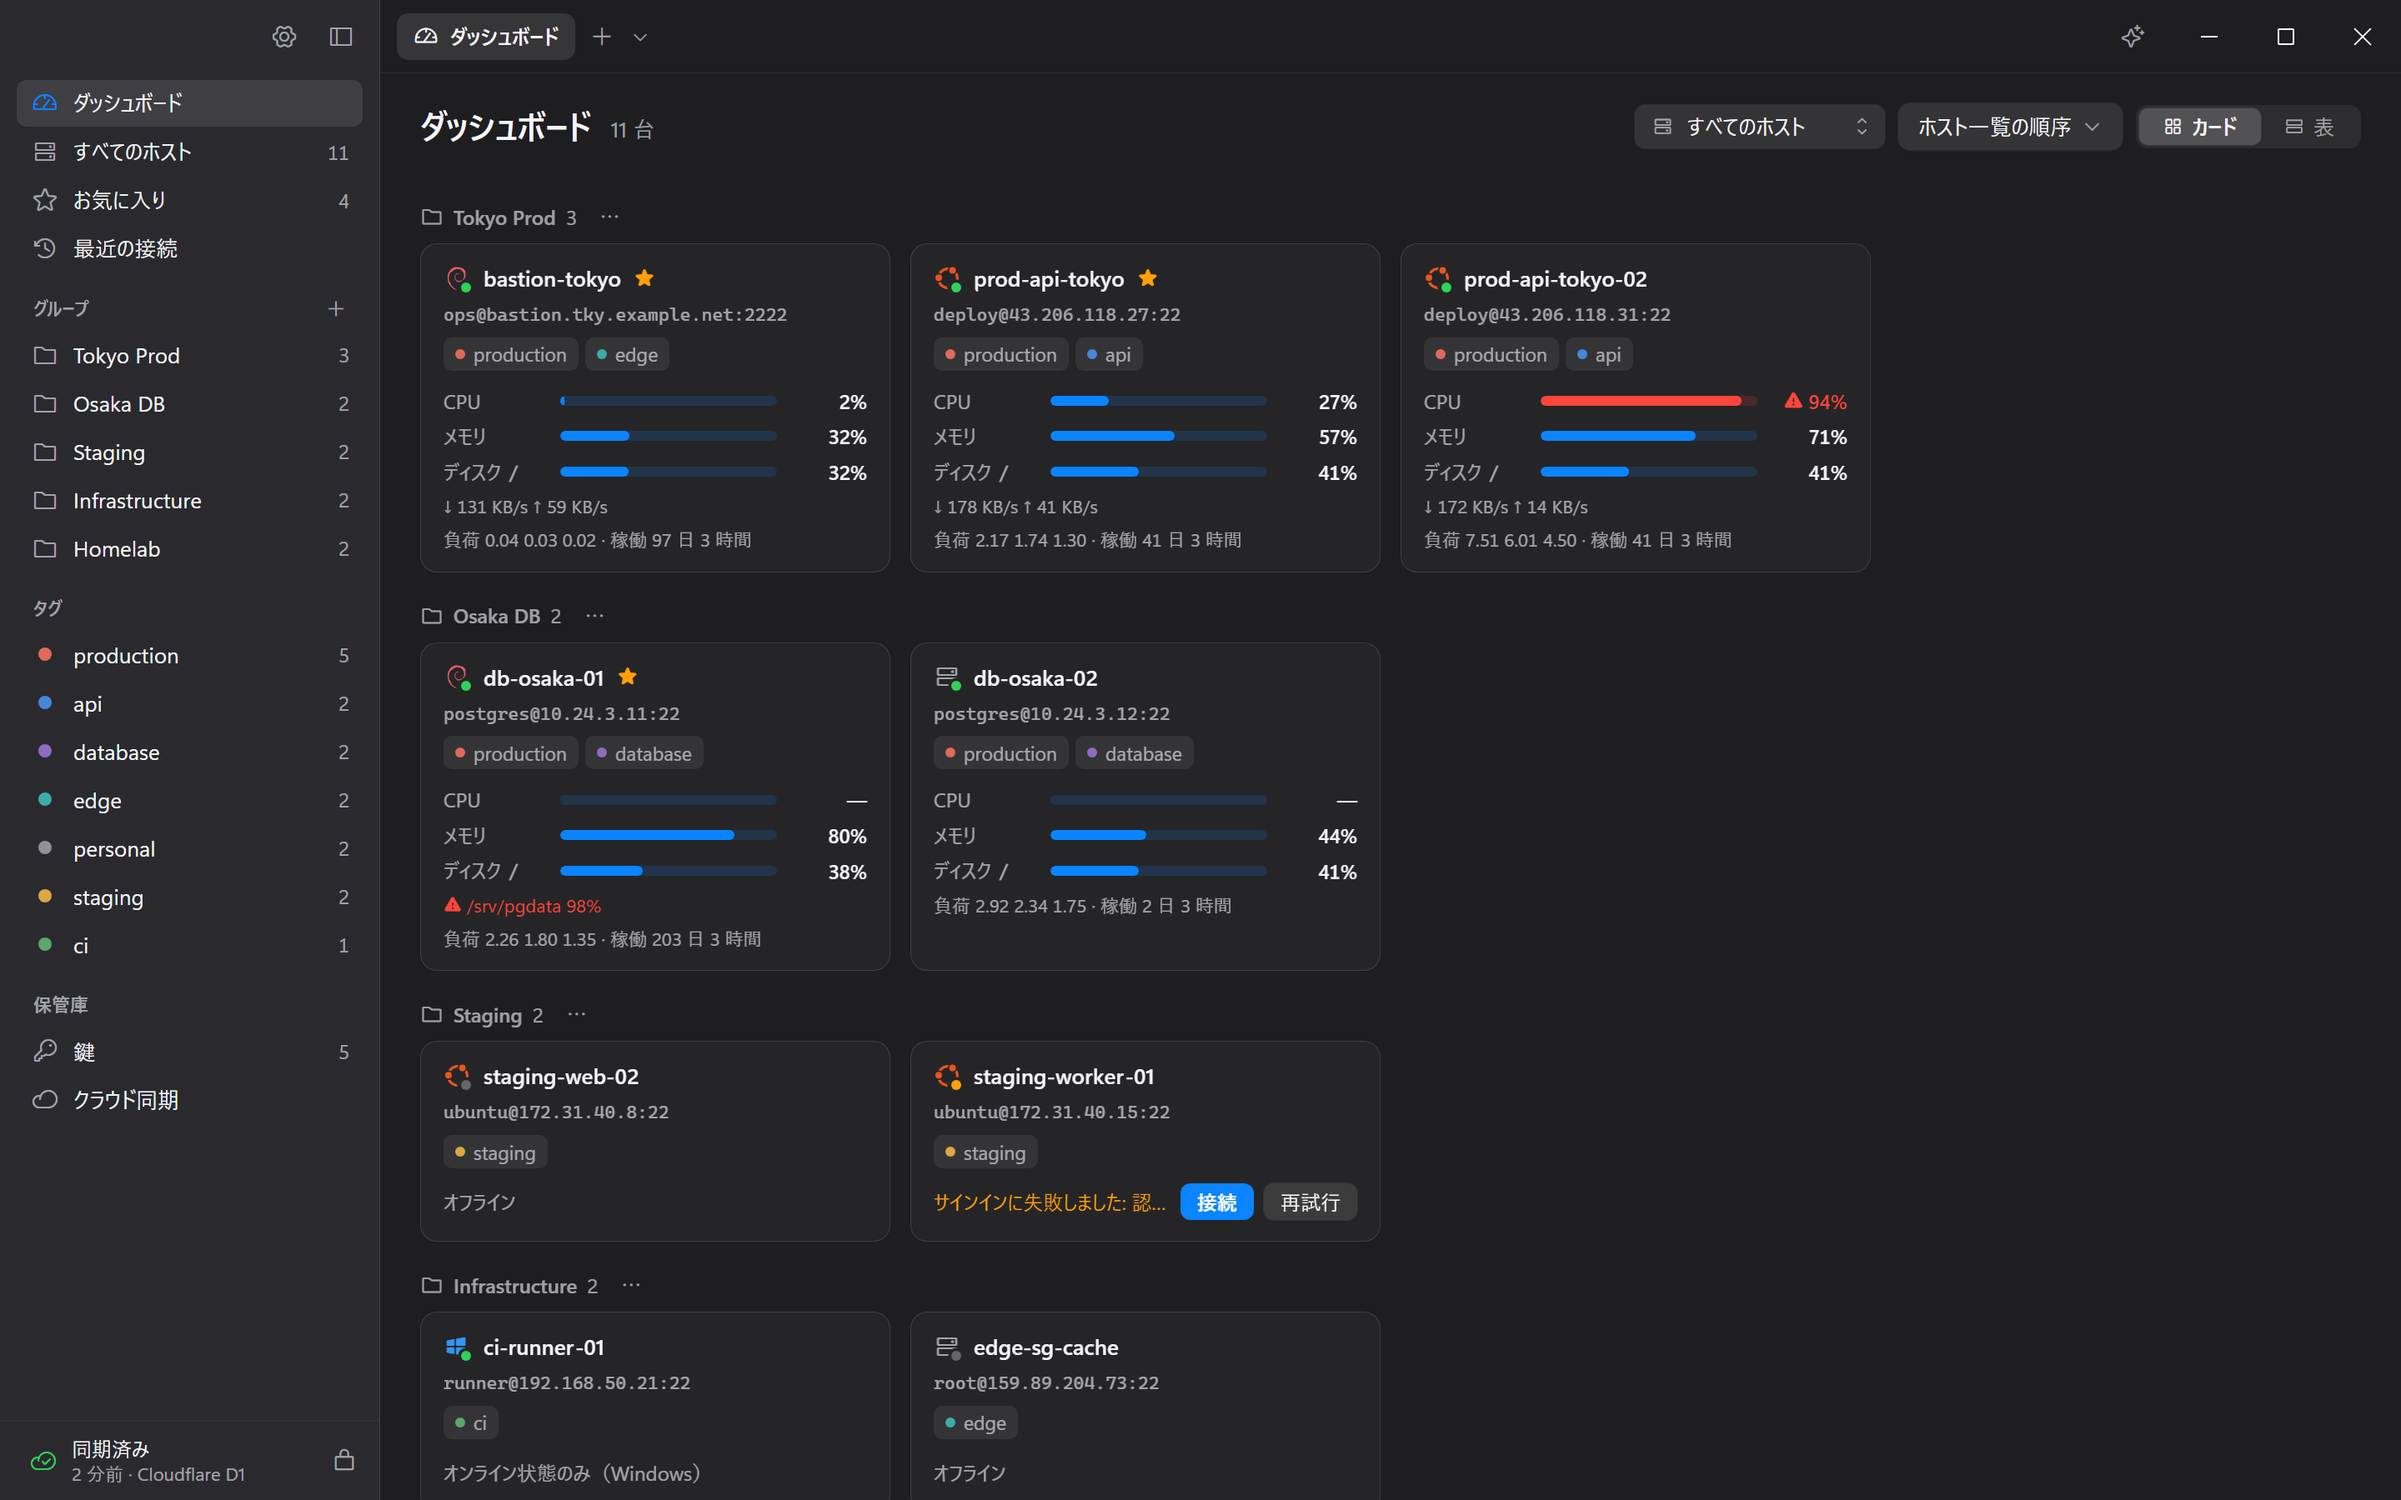
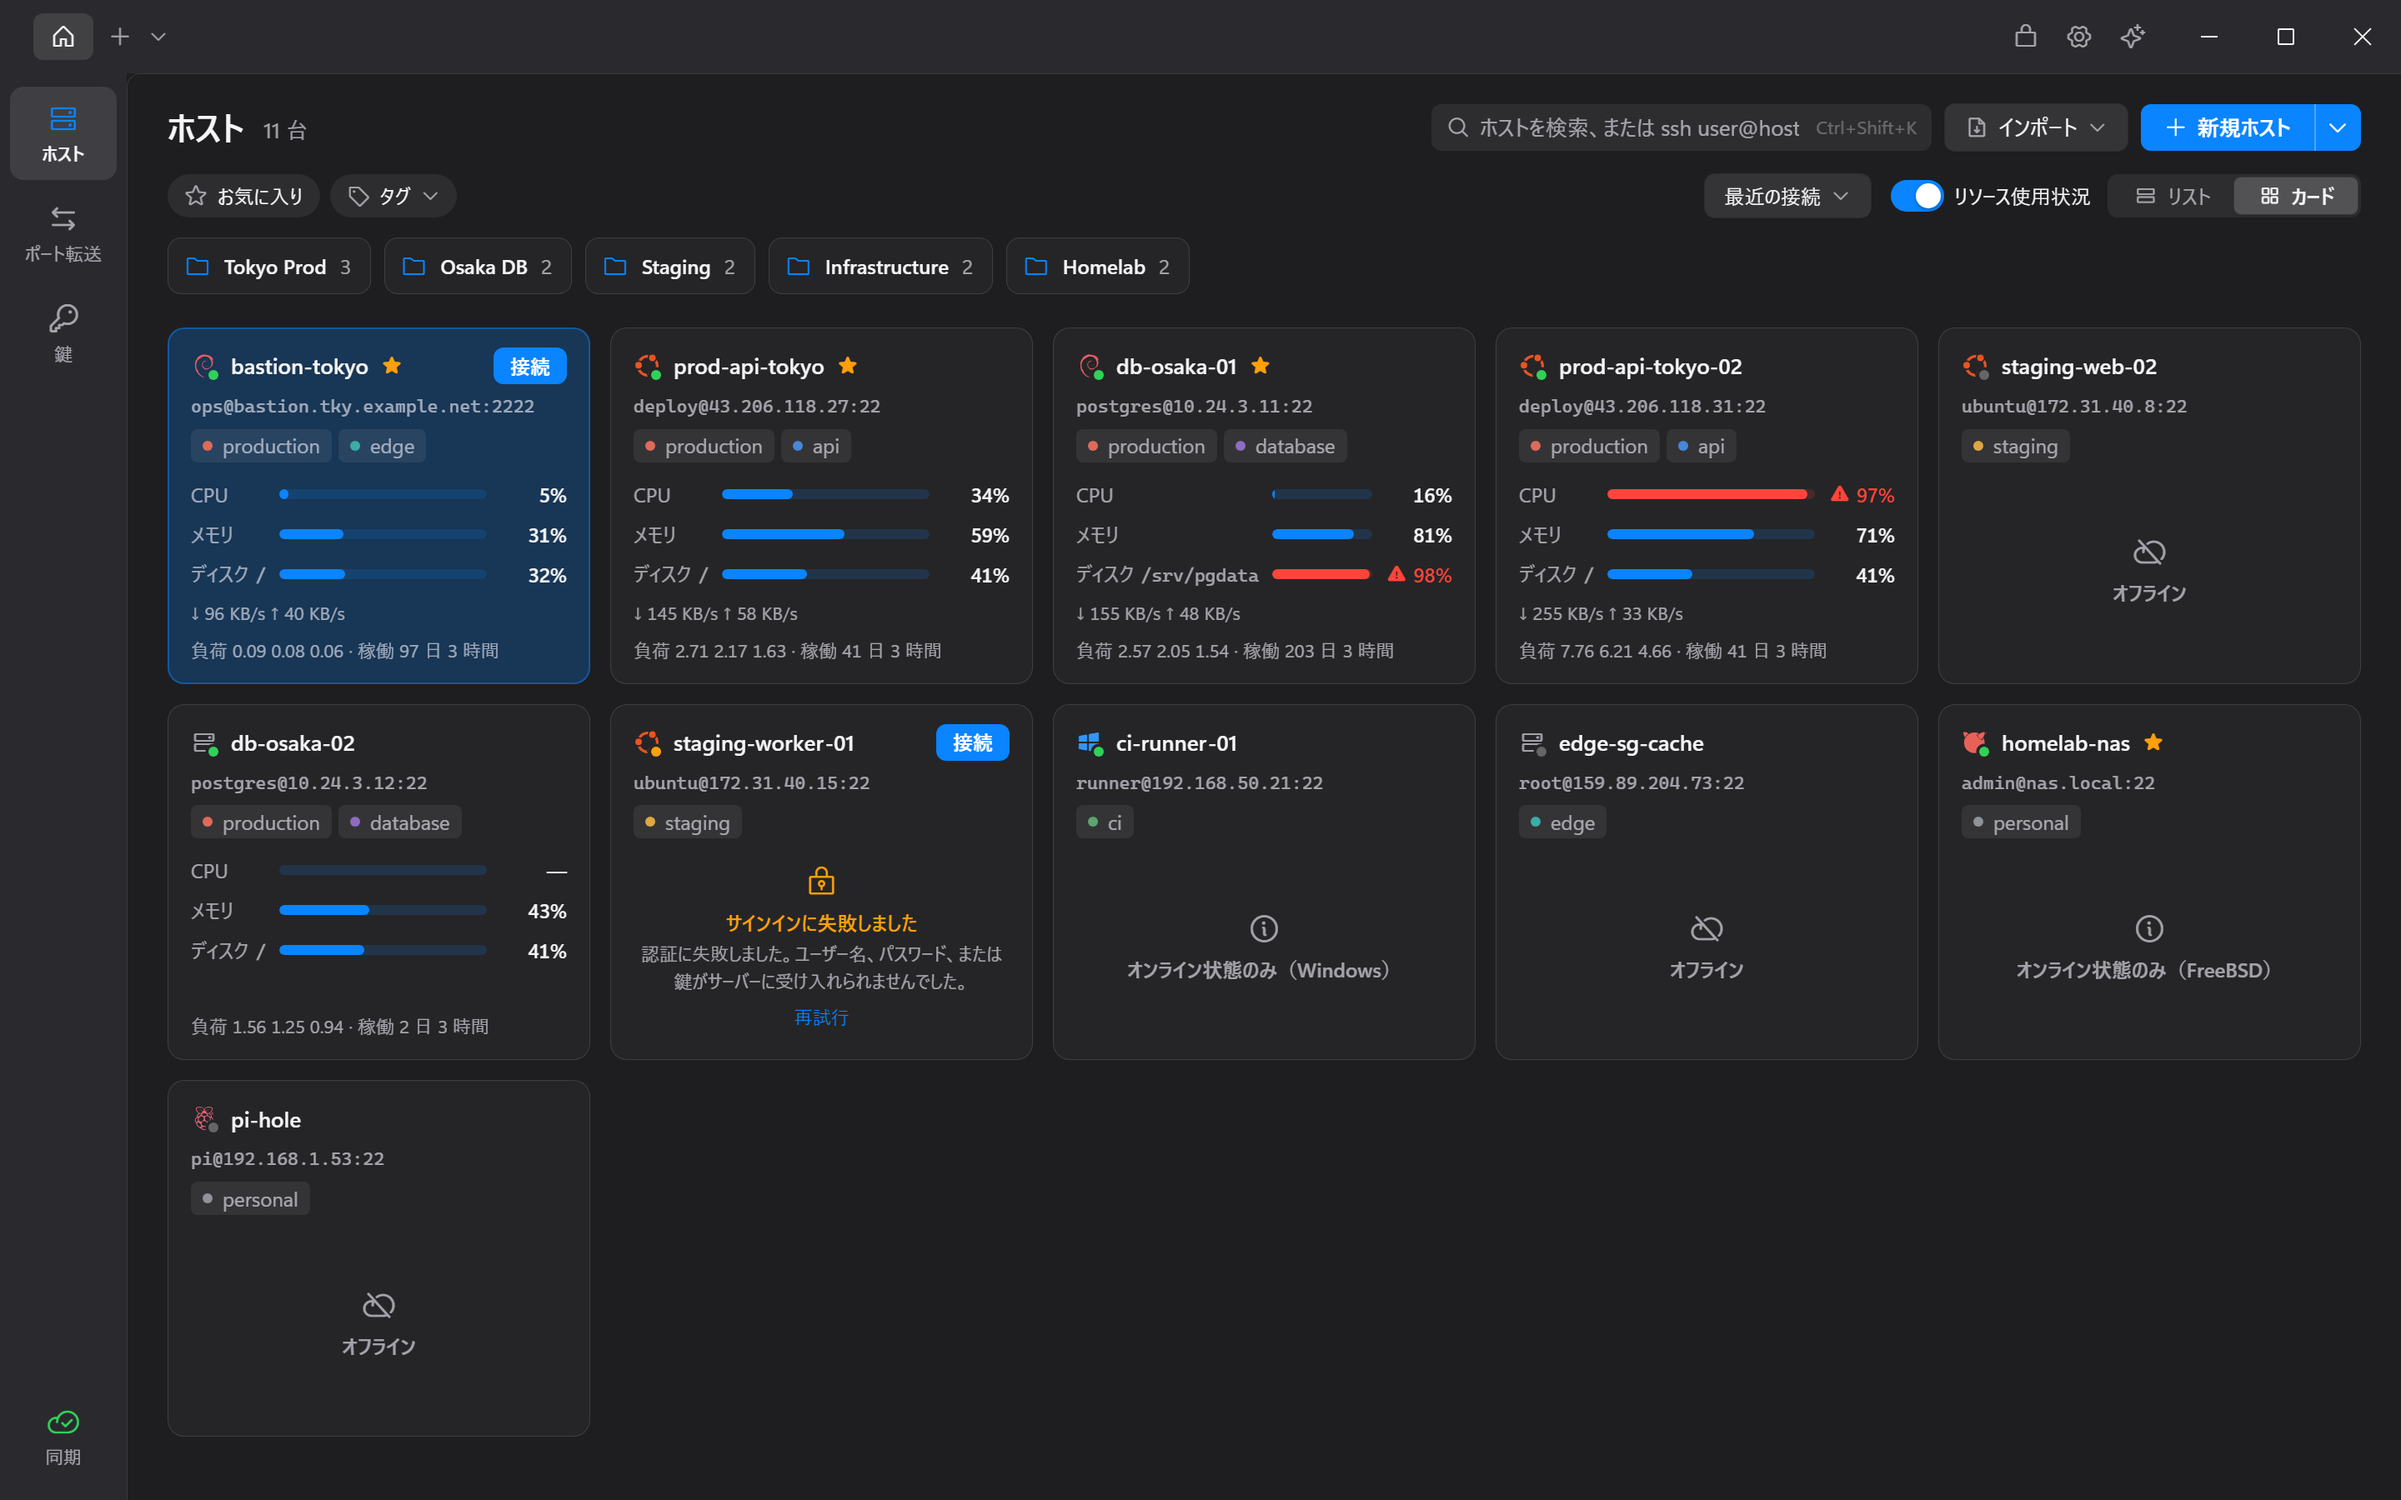
docs(media): retake the site's screenshots in the new layout
screenshots.py clicks the rail's Sync, and the promo capture opens the hosts page and its cards with resource usage instead of All Hosts and the dashboard. The film finds a card's meters in their grid.

diff --git a/scripts/media/promo/promo.js b/scripts/media/promo/promo.js
@@ -984,14 +984,17 @@ const app = (() => {
     /* dashboard */
     {
       const doc = S.dash.doc;
-      H.dash = all(doc, 'card').map((card) => ({
-        card,
-        meters: all(card, 'meterRow').map((row) => {
-          const fill = one(row, 'meterFill');
-          const value = one(row, 'meterValue');
-          return { fill, value, w: fill ? parseFloat(fill.style.width) || 0 : 0, text: value ? value.textContent : '' };
-        }),
-      }));
+      // A card's meters are a grid of label, bar, and value; the value's text follows its icon, if any.
+      H.dash = all(doc, 'card').map((card) => {
+        const values = all(card, 'meterValue');
+        return {
+          card,
+          meters: all(card, 'meterFill').map((fill, k) => {
+            const value = values[k] && [...values[k].childNodes].find((n) => n.nodeType === Node.TEXT_NODE);
+            return { fill, value, w: parseFloat(fill.style.width) || 0, text: value ? value.textContent : '' };
+          }),
+        };
+      });
     }
 
     /* cursor */

diff --git a/scripts/media/promo/capture.py b/scripts/media/promo/capture.py
@@ -25,8 +25,8 @@ LOCALES = {
         "show_ai": "Show AI Panel",
         "run": "Run",
         "fixed": "Fixed.",
-        "dashboard": "Dashboard",
-        "all": "All Hosts",
+        "cards": "Cards",
+        "stats": "Resource Usage",
     },
     "zh": {
         "browser": "zh-CN",
@@ -34,8 +34,8 @@ LOCALES = {
         "show_ai": "显示 AI 面板",
         "run": "运行",
         "fixed": "修好了。",
-        "dashboard": "仪表盘",
-        "all": "全部主机",
+        "cards": "卡片",
+        "stats": "资源占用",
     },
 }
 
@@ -108,8 +108,6 @@ def main():
                 print(lang, name)
 
             pg = page()
-            pg.get_by_text(label["all"], exact=True).first.click()
-            pg.wait_for_timeout(800)
             save(pg, "hosts")
             pg.get_by_text("prod-api-tokyo", exact=True).first.dblclick()
             pg.wait_for_timeout(2500)
@@ -147,8 +145,10 @@ def main():
             pg.wait_for_timeout(5000)
             save(pg, "ai-done")
 
+            # Resource usage: the hosts page as cards, once the first readings are in
             pg = page()
-            pg.get_by_text(label["dashboard"], exact=True).first.click()
+            pg.get_by_role("radio", name=label["cards"]).click()
+            pg.get_by_role("switch", name=label["stats"]).click()
             pg.wait_for_timeout(4000)
             save(pg, "dash")
         browser.close()

diff --git a/scripts/media/screenshots.py b/scripts/media/screenshots.py
@@ -29,7 +29,7 @@ LOCALES = {
         "fixed": "Fixed.",
         "cards": "Cards",
         "stats": "Resource Usage",
-        "sync": "Cloud Sync",
+        "sync": "Sync",
         "continue": "Continue",
         "deploy": "Deploy",
         "deployed": "Sync Worker Deployed",
@@ -55,7 +55,7 @@ LOCALES = {
         "fixed": "修正しました。",
         "cards": "カード",
         "stats": "リソース使用状況",
-        "sync": "クラウド同期",
+        "sync": "同期",
         "continue": "続ける",
         "deploy": "デプロイ",
         "deployed": "同期 Worker をデプロイしました",
